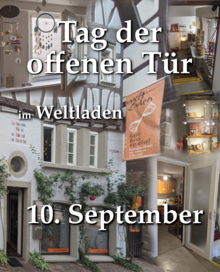
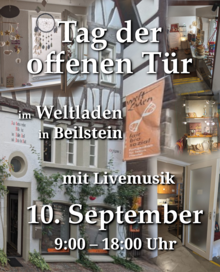
Tag der offenen Tuer aktualisiert

Changed region(s): [[0.2727, 0.6176, 0.8182, 0.7059], [0.2455, 0.8529, 0.8182, 0.9412], [0.1636, 0.4412, 0.5727, 0.5294]]

diff --git a/index.html b/index.html
@@ -136,8 +136,9 @@
                                     <div class="inner">
                                         <h3>Tag der offenen Tür</h3>
                                         <p>
-                                            Am Freitag den <em>10. September</em> veranstaltet der Weltladen einen <em>Tag der offenen Tür</em>.
-                                            Alle Interessierten sind herzlich eingeladen, uns an diesem Tag ein wenig &quot;über die Schulter&quot; zu schauen.
+                                        Am Freitag den <b>10. September von 9 bis 18 Uhr</b>  wollen wir uns für Ihre Treue mit einem <b>Tag der offenen Tür</b> bedanken.
+                                        Alle Interessierten sind herzlich eingeladen, uns an diesem Tag ein wenig &quot;über die Schulter&quot; zu schauen.
+                                        Freuen Sie sich darauf, eine weitere Facette des Weltladens kennen zu lernen und genießen Sie dabei <em>Live-Musik</em>.
                                         </p>
                                     </div>
                                 </div>
